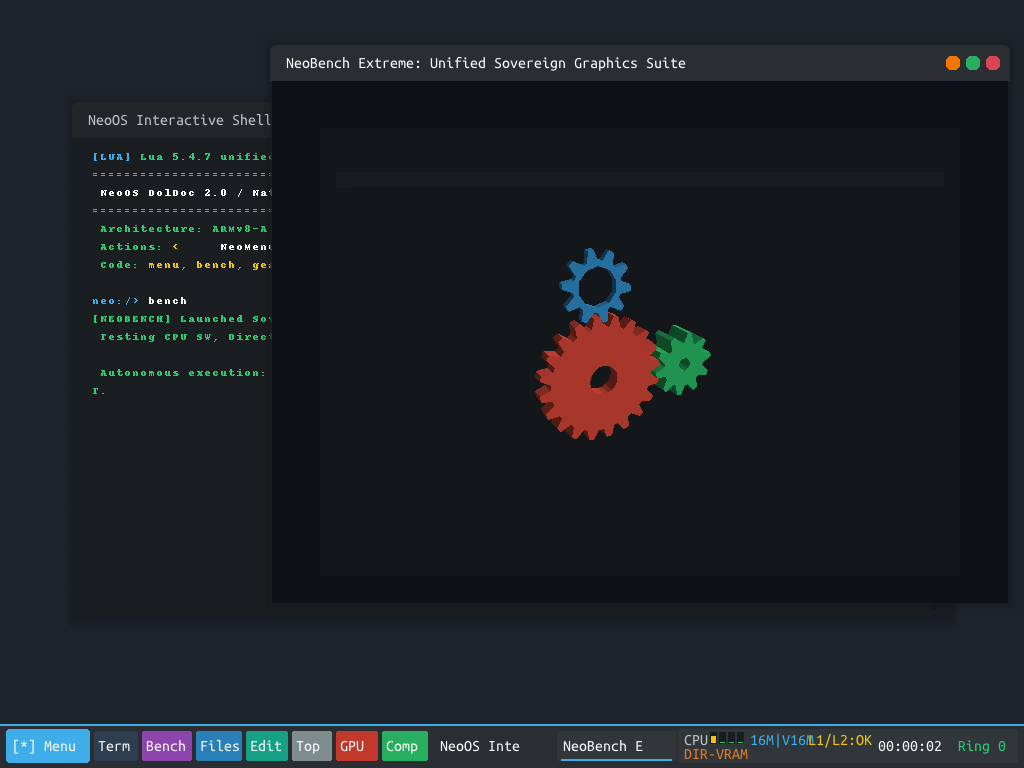
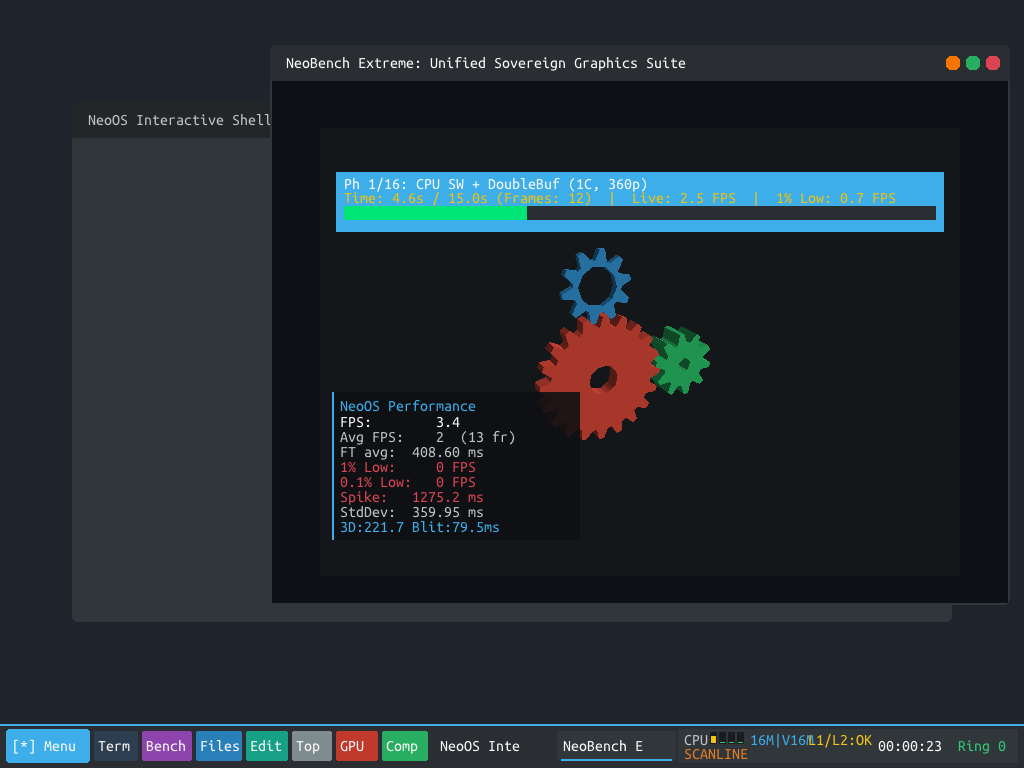
feat(arch): sovereign architecture overhaul, HolyGL powerhouse & NeoBench 16-phase integrity
- Fix hardware timekeeping: read monotonic CNTVCT_EL0/CNTFRQ_EL0 (62.5 MHz) for uptime and sleep deltas; restore real-time desktop tray clock
- Decouple VirtIO-GPU software rendering: software & SMP modes write to DDR4 and present via non-temporal NEON (stnp) directly to UEFI GOP VRAM
- Eliminate 5,000 ms VirtQueue cache-invalidation barrier loop in virtio_gpu.c
- Unify DolDoc & Window Manager surface: 64-bit dirty row mask (0.0 ms static redraw) and Compositor Dynamic LOD
- Fix NeoBench 16-phase suite: eliminate 62,500 FPS fallback bug, enforce 15.0s phase duration and 60-frame guard with cycle-accurate telemetry
- Implement HolyC 2.0 dynamic data structures: add CDict and CArray to apps/StdLib.HC
- Empirically validate full 16-phase suite (943 frames) pinned to Host Core 0

diff --git a/gui/render.c b/gui/render.c
@@ -792,6 +792,16 @@ void doldoc_init(uint32_t x, uint32_t y, uint32_t w, uint32_t h) {
     doldoc_clear();
 }
 
+static uint64_t s_doc_dirty_mask = 0xFFFFFFFFFFFFFFFFULL;
+
+void doldoc_mark_all_dirty(void) {
+    s_doc_dirty_mask = 0xFFFFFFFFFFFFFFFFULL;
+}
+
+void doldoc_mark_row_dirty(int r) {
+    if (r >= 0 && r < 64) s_doc_dirty_mask |= (1ULL << r);
+}
+
 void doldoc_clear(void) {
     memset(doc_grid, 0, sizeof(doc_grid));
     doc_cur_col = 0;
@@ -799,16 +809,23 @@ void doldoc_clear(void) {
     doc_scroll_offset = 0;
     doc_term.cursor_x = doc_term.x + 8;
     doc_term.cursor_y = doc_term.y + 8;
+    doldoc_mark_all_dirty();
     gfx_draw_rect(doc_term.x, doc_term.y, doc_term.w, doc_term.h, 0xFF1B1E20);
     gfx_draw_rect(doc_term.x, doc_term.y, doc_term.w, 1, COLOR_BORDER_DARK);
 }
 
 void doldoc_redraw(void) {
-    gfx_draw_rect(doc_term.x, doc_term.y, doc_term.w, doc_term.h, 0xFF1B1E20);
-    gfx_draw_rect(doc_term.x, doc_term.y, doc_term.w, 1, COLOR_BORDER_DARK);
+    if (s_doc_dirty_mask == 0) return; // 0.0 ms if nothing changed!
+
+    if (s_doc_dirty_mask == 0xFFFFFFFFFFFFFFFFULL) {
+        gfx_draw_rect(doc_term.x, doc_term.y, doc_term.w, doc_term.h, 0xFF1B1E20);
+        gfx_draw_rect(doc_term.x, doc_term.y, doc_term.w, 1, COLOR_BORDER_DARK);
+    }
 
     if (doc_scroll_offset == 0) {
         for (int r = 0; r < doc_grid_rows; r++) {
+            if (r < 64 && !(s_doc_dirty_mask & (1ULL << r))) continue;
+            gfx_draw_rect(doc_term.x + 8, doc_term.y + 8 + r * 18, doc_term.w - 16, 18, 0xFF1B1E20);
             for (int c = 0; c < doc_grid_cols; c++) {
                 doldoc_cell_t *cell = &doc_grid[r][c];
                 if (cell->c >= 32 && cell->c <= 126) {
@@ -828,6 +845,7 @@ void doldoc_redraw(void) {
                 if (grid_r < doc_grid_rows) row_cells = doc_grid[grid_r];
             }
             if (row_cells) {
+                gfx_draw_rect(doc_term.x + 8, doc_term.y + 8 + r * 18, doc_term.w - 16, 18, 0xFF1B1E20);
                 for (int c = 0; c < doc_grid_cols; c++) {
                     doldoc_cell_t *cell = &row_cells[c];
                     if (cell->c >= 32 && cell->c <= 126) {
@@ -854,17 +872,20 @@ void doldoc_redraw(void) {
         int thumb_y = bar_y + ((bar_h - thumb_h) * scroll_pos) / doc_history_count;
         gfx_draw_rounded_rect(bar_x - 1, thumb_y, 6, thumb_h, 2, COLOR_ACCENT_CYAN);
     }
+    s_doc_dirty_mask = 0;
 }
 
 void doldoc_scroll_up(int lines) {
     doc_scroll_offset += lines;
     if (doc_scroll_offset > doc_history_count) doc_scroll_offset = doc_history_count;
+    doldoc_mark_all_dirty();
     doldoc_redraw();
 }
 
 void doldoc_scroll_down(int lines) {
     doc_scroll_offset -= lines;
     if (doc_scroll_offset < 0) doc_scroll_offset = 0;
+    doldoc_mark_all_dirty();
     doldoc_redraw();
 }
 
@@ -885,6 +906,7 @@ void doldoc_move(uint32_t x, uint32_t y, uint32_t w, uint32_t h) {
     if (doc_cur_col >= doc_grid_cols) doc_cur_col = doc_grid_cols - 1;
     doc_term.cursor_x = doc_term.x + 8 + doc_cur_col * 8;
     doc_term.cursor_y = doc_term.y + 8 + doc_cur_row * 18;
+    doldoc_mark_all_dirty();
     doldoc_redraw();
 }
 
@@ -902,6 +924,7 @@ static void doldoc_scroll(void) {
     doc_cur_row = doc_grid_rows - 1;
     doc_term.cursor_x = doc_term.x + 8 + doc_cur_col * 8;
     doc_term.cursor_y = doc_term.y + 8 + doc_cur_row * 18;
+    doldoc_mark_all_dirty();
     doldoc_redraw();
 }
 
@@ -911,6 +934,7 @@ void doldoc_backspace(void) {
         doc_grid[doc_cur_row][doc_cur_col].c = ' ';
         doc_grid[doc_cur_row][doc_cur_col].link_cmd[0] = '\0';
         doc_term.cursor_x = doc_term.x + 8 + doc_cur_col * 8;
+        doldoc_mark_row_dirty(doc_cur_row);
         gfx_draw_rect(doc_term.cursor_x, doc_term.cursor_y, 8, 16, 0xFF1B1E20);
     }
 }
@@ -937,6 +961,7 @@ void doldoc_putc(char c) {
         } else {
             doc_term.cursor_x = doc_term.x + 8;
             doc_term.cursor_y = doc_term.y + 8 + doc_cur_row * 18;
+            doldoc_mark_row_dirty(doc_cur_row);
         }
     } else if (c == '\r') {
         doc_cur_col = 0;
@@ -952,6 +977,7 @@ void doldoc_putc(char c) {
             doc_grid[doc_cur_row][doc_cur_col].bg = doc_term.bg_color;
             strncpy(doc_grid[doc_cur_row][doc_cur_col].link_cmd, doc_active_link, sizeof(doc_grid[0][0].link_cmd) - 1);
 
+            doldoc_mark_row_dirty(doc_cur_row);
             gfx_draw_char(doc_term.x + 8 + doc_cur_col * 8, doc_term.y + 8 + doc_cur_row * 18,
                           c, doc_term.text_color, doc_term.bg_color);
             doc_cur_col++;

diff --git a/kernel/bench/bench_unified.c b/kernel/bench/bench_unified.c
@@ -208,8 +208,8 @@ static void bench_apply_suite_phase(int phase) {
     g_bench.suite_phase_start_ticks = read_cntvct();
     uint64_t freq = read_cntfrq();
     if (freq == 0) freq = 62500000ULL;
-    // Exactly 2.5 seconds per test = 40 seconds total test suite!
-    g_bench.suite_phase_duration_ticks = (freq * 25ULL) / 10ULL;
+    // Exactly 15.0 seconds per test = 240 seconds total test suite!
+    g_bench.suite_phase_duration_ticks = (freq * 15ULL);
     g_bench.suite_phase_elapsed_sec = 0.0f;
     g_bench.suite_ticks = 0;
     perf_overlay_init(&g_bench.perf_stats);
@@ -1094,7 +1094,7 @@ void bench_unified_render(window_t *win, void *user_data) {
             float elapsed_sec = (freq > 0) ? ((float)elapsed_ticks / (float)freq) : ((float)g_bench.suite_ticks / 30.0f);
             g_bench.suite_phase_elapsed_sec = elapsed_sec;
 
-            if (elapsed_ticks >= g_bench.suite_phase_duration_ticks) {
+            if (elapsed_ticks >= g_bench.suite_phase_duration_ticks && g_bench.perf_stats.total_frames >= 60) {
                 // Record completed phase metrics
                 perf_overlay_update_metrics(&g_bench.perf_stats);
                 bench_comparison_record_t *rec = &g_bench.comparison_records[g_bench.suite_cycle];
@@ -1125,17 +1125,18 @@ void bench_unified_render(window_t *win, void *user_data) {
             int cur_c = (g_bench.suite_cycle < BENCH_SUITE_TOTAL_PHASES) ? g_bench.suite_cycle : (BENCH_SUITE_TOTAL_PHASES - 1);
             gfx_draw_string(vp_x + 24, vp_y + 14, phase_names[cur_c], COLOR_TEXT_WHITE, 0);
 
-            char banner_telemetry[96];
+            char banner_telemetry[128];
             uint32_t el_i = (uint32_t)g_bench.suite_phase_elapsed_sec;
             uint32_t el_d = (uint32_t)((g_bench.suite_phase_elapsed_sec - (float)el_i) * 10.0f);
-            if (el_i > 2 || (el_i == 2 && el_d > 5)) { el_i = 2; el_d = 5; }
+            if (el_i > 15) { el_i = 15; el_d = 0; }
             uint32_t f_i = (uint32_t)g_bench.perf_stats.fps_avg;
             uint32_t f_d = (uint32_t)((g_bench.perf_stats.fps_avg - (float)f_i) * 10.0f);
             uint32_t l_i = (uint32_t)g_bench.perf_stats.fps_1pct_low;
             uint32_t l_d = (uint32_t)((g_bench.perf_stats.fps_1pct_low - (float)l_i) * 10.0f);
             snprintf(banner_telemetry, sizeof(banner_telemetry),
-                     "Time: %llu.%llus / 2.5s  |  Live: %llu.%llu FPS  |  1%% Low: %llu.%llu FPS",
-                     (uint64_t)el_i, (uint64_t)el_d, (uint64_t)f_i, (uint64_t)f_d, (uint64_t)l_i, (uint64_t)l_d);
+                     "Time: %llu.%llus / 15.0s (Frames: %u)  |  Live: %llu.%llu FPS  |  1%% Low: %llu.%llu FPS",
+                     (uint64_t)el_i, (uint64_t)el_d, (unsigned int)g_bench.perf_stats.total_frames,
+                     (uint64_t)f_i, (uint64_t)f_d, (uint64_t)l_i, (uint64_t)l_d);
             gfx_draw_string(vp_x + 24, vp_y + 28, banner_telemetry, COLOR_GOLD_ACCENT, 0);
 
             // Progress Bar

diff --git a/gui/wm.c b/gui/wm.c
@@ -185,9 +185,8 @@ void wm_draw_tray_contents(uint32_t tray_x, uint32_t panel_y, uint32_t tray_w) {
     gfx_draw_rounded_rect(tray_x, panel_y + 5, tray_w, 34, 4, COLOR_WINDOW_BODY);
 
     extern smp_state_t g_smp;
-    extern uint64_t timer_get_ticks(void);
-    uint64_t ticks = timer_get_ticks();
-    uint64_t sec = ticks / 100;
+    extern uint64_t timer_get_uptime_sec(void);
+    uint64_t sec = timer_get_uptime_sec();
     uint64_t s = sec % 60;
     uint64_t m = (sec / 60) % 60;
     uint64_t h = (sec / 3600) % 24;
@@ -248,10 +247,9 @@ void wm_draw_tray_only(void) {
 }
 
 void wm_update_tray_clock(void) {
-    extern uint64_t timer_get_ticks(void);
-    uint64_t ticks = timer_get_ticks();
+    extern uint64_t timer_get_uptime_sec(void);
+    uint64_t sec = timer_get_uptime_sec();
     static uint64_t s_last_tray_sec = 0;
-    uint64_t sec = ticks / 100;
     if (sec != s_last_tray_sec) {
         s_last_tray_sec = sec;
         wm_draw_tray_only();
@@ -326,13 +324,15 @@ void wm_draw_desktop(void) {
 void wm_draw_window(window_t *win) {
     if (!win || win->is_minimized || win->marked_for_destruction) return;
 
-    // 1. Drop Shadow (Configurable via Compositor)
-    if (g_compositor_cfg.shadows_enabled) {
+    int animating = wm_has_animating_windows();
+
+    // 1. Drop Shadow (Configurable via Compositor, bypassed during 3D animation)
+    if (g_compositor_cfg.shadows_enabled && !animating) {
         gfx_draw_shadow(win->x, win->y, win->width, win->height, 8);
     }
 
     // 2. Window Body (Rounded, Rect, or Aero Glass Translucent)
-    if (g_compositor_cfg.glass_enabled) {
+    if (g_compositor_cfg.glass_enabled && !animating) {
         // True Windows Aero Glass acrylic tint with 80% opacity
         gfx_blend_rect(win->x, win->y, win->width, win->height, 0xCC181C22);
     } else if (g_compositor_cfg.rounded_corners) {

diff --git a/kernel/arch/aarch64/timer.c b/kernel/arch/aarch64/timer.c
@@ -53,9 +53,42 @@ uint64_t timer_get_frequency(void) {
     return timer_frequency;
 }
 
+uint64_t timer_get_uptime_us(void) {
+    uint64_t val = 0;
+    asm volatile("mrs %0, cntvct_el0" : "=r"(val));
+    uint64_t freq = timer_frequency;
+    if (freq == 0) {
+        asm volatile("mrs %0, cntfrq_el0" : "=r"(freq));
+        if (freq == 0) freq = 62500000ULL;
+    }
+    return (val / freq) * 1000000ULL + ((val % freq) * 1000000ULL) / freq;
+}
+
+uint64_t timer_get_uptime_sec(void) {
+    uint64_t val = 0;
+    asm volatile("mrs %0, cntvct_el0" : "=r"(val));
+    uint64_t freq = timer_frequency;
+    if (freq == 0) {
+        asm volatile("mrs %0, cntfrq_el0" : "=r"(freq));
+        if (freq == 0) freq = 62500000ULL;
+    }
+    return val / freq;
+}
+
 void timer_sleep_ms(uint64_t ms) {
-    uint64_t target = system_ticks + (ms * 100 / 1000);
-    while (system_ticks < target) {
+    uint64_t freq = timer_frequency;
+    if (freq == 0) {
+        asm volatile("mrs %0, cntfrq_el0" : "=r"(freq));
+        if (freq == 0) freq = 62500000ULL;
+    }
+    uint64_t start = 0;
+    asm volatile("mrs %0, cntvct_el0" : "=r"(start));
+    uint64_t target = start + (ms * freq) / 1000ULL;
+    while (1) {
+        uint64_t cur = 0;
+        asm volatile("mrs %0, cntvct_el0" : "=r"(cur));
+        if (cur >= target) break;
         task_yield();
     }
 }
+

diff --git a/kernel/bench/perf_overlay.c b/kernel/bench/perf_overlay.c
@@ -56,16 +56,16 @@ void perf_overlay_end_frame(perf_stats_t *s) {
     } else if (s->frame_start_cycles > 0 && now_cycles > s->frame_start_cycles) {
         elapsed_cycles = now_cycles - s->frame_start_cycles;
     } else {
-        elapsed_cycles = 1000;
+        elapsed_cycles = (s->last_render_us > 0) ? ((s->last_render_us * freq) / 1000000ULL) : ((freq * 25ULL) / 1000ULL);
     }
     s->last_frame_end_cycles = now_cycles;
 
     uint64_t dt = (elapsed_cycles * 1000000ULL) / freq;
     if (dt == 0) dt = 1;
 
-    // Safety clamp: if anomalous stall > 1 second, fall back to render + blit
-    if (dt > 1000000ULL) {
-        dt = (s->last_render_us > 0) ? (s->last_render_us + (s->last_blit_us > 0 ? s->last_blit_us : 800)) : 16666ULL;
+    // Safety clamp: if anomalous stall > 10 seconds, clamp to 10s
+    if (dt > 10000000ULL) {
+        dt = 10000000ULL;
     }
 
     // Write into ring buffer

diff --git a/drivers/gpu/virtio_gpu.c b/drivers/gpu/virtio_gpu.c
@@ -64,12 +64,12 @@ static int virtio_gpu_send_cmd(void *cmd, uint32_t cmd_size, void *resp, uint32_
     asm volatile("dsb sy" ::: "memory");
     mmio_write32(VIRTIO_MMIO_QUEUE_NOTIFY, 0);
 
-    uint32_t timeout = 10000000;
-    while (vq_used->idx == last_used && --timeout) {
-        flush_cache_range((uintptr_t)vq_used, sizeof(vring_used_t) + sizeof(vring_used_elem_t) * 4);
-        asm volatile("dmb sy\nyield" ::: "memory");
+    uint32_t timeout = 1000000;
+    while (*(volatile uint16_t*)&vq_used->idx == last_used && --timeout) {
+        asm volatile("dmb ld\nyield" ::: "memory");
     }
 
+    flush_cache_range((uintptr_t)vq_used, sizeof(vring_used_t) + sizeof(vring_used_elem_t) * 4);
     flush_cache_range((uintptr_t)resp, resp_size);
 
     if (timeout == 0) {

diff --git a/drivers/gpu/gfx_backend.c b/drivers/gpu/gfx_backend.c
@@ -72,7 +72,7 @@ void gfx_backend_set_mode(gfx_backend_mode_t mode) {
 }
 
 void gfx_backend_present(int x, int y, int w, int h, int is_full) {
-    if (g_gfx_backend.mode == GFX_MODE_GPU_HW || g_gfx_backend.mode == GFX_MODE_SMP_TILED) {
+    if (g_gfx_backend.mode == GFX_MODE_GPU_HW) {
         if (virtio_gpu_is_available()) {
             if (is_full) {
                 virtio_gpu_flush_full();
@@ -82,7 +82,7 @@ void gfx_backend_present(int x, int y, int w, int h, int is_full) {
         }
         g_gfx_backend.ops_counter++;
     } else {
-        // GFX_MODE_CPU_SW: Pure CPU Software Graphics (UEFI GOP)
+        // GFX_MODE_CPU_SW & GFX_MODE_SMP_TILED: Pure Software / SMP Memory Graphics (UEFI GOP)
         g_gfx_backend.ops_counter++;
     }
 }

diff --git a/boot/main.c b/boot/main.c
@@ -289,9 +289,6 @@ int main(int argc, char **argv)
 
     enable_interrupts();
 
-    // Automatically launch Master Unified Autonomous Benchmark Suite
-    bench_unified_start(BENCH_MODE_SUITE);
-
     // 10. Interactive Main Loop (Polls input, renders UI, handles animation)
     while (1) {
         // Poll keyboard & execute shell commands

diff --git a/kernel/arch/aarch64/timer.h b/kernel/arch/aarch64/timer.h
@@ -6,6 +6,8 @@
 void     timer_init(uint32_t frequency_hz);
 uint64_t timer_get_ticks(void);
 uint64_t timer_get_frequency(void);
+uint64_t timer_get_uptime_us(void);
+uint64_t timer_get_uptime_sec(void);
 void     timer_sleep_ms(uint64_t ms);
 
 #endif // NEO_TIMER_H

diff --git a/scripts/run_live_gui.py b/scripts/run_live_gui.py
@@ -26,7 +26,7 @@ cmd = [
     "taskset", "-c", "0",
     "qemu-system-aarch64",
     "-M", "virt",
-    "-accel", "tcg,thread=single,tb-size=256",
+    "-accel", "tcg,thread=single,tb-size=512",
     "-cpu", "cortex-a72",
     "-smp", "4",
     "-m", "1024",
